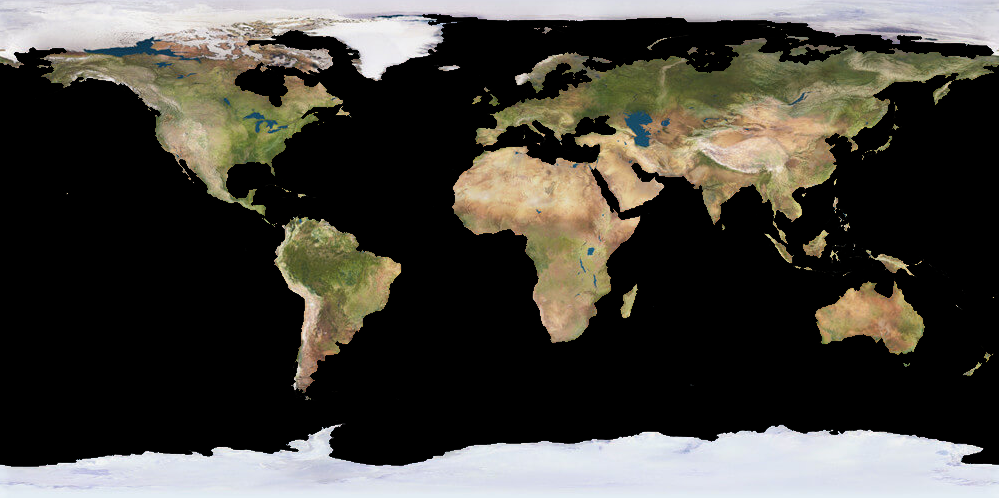
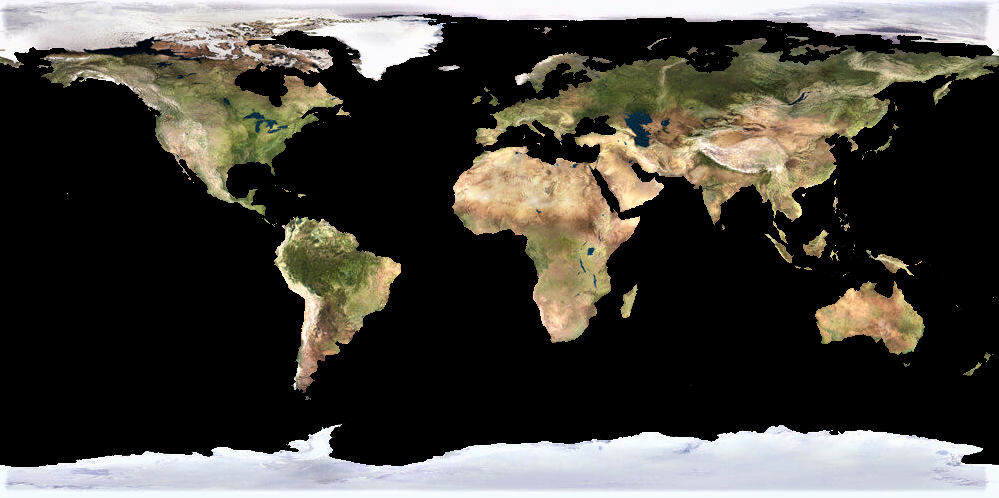
optimizacion

diff --git a/src/components/home/scene/planetUniverse.js b/src/components/home/scene/planetUniverse.js
@@ -1,6 +1,5 @@
 import * as THREE from "three"
-import earthBump from "./srcPlanet/earthbump.jpg"
-import earthCloud from "./srcPlanet/earthCloud.png"
+import earthCloud from "./srcPlanet/earthCloud22.png"
 import earthmap1k from "./srcPlanet/earthMap2.png"
 import galaxy from "./srcPlanet/space7.jpg"
 import gsap from "gsap";
@@ -59,11 +58,9 @@ const planetUniverse = () => {
 
     /* textures */
     const textureLoader = new THREE.TextureLoader()
-    const earthBump1 = textureLoader.load(earthBump)
     const earthCloud1 = textureLoader.load(earthCloud)
     const texturePlanet = textureLoader.load(earthmap1k)
     const galaxyTexture = textureLoader.load(galaxy)
-    galaxyTexture.minFilter = THREE.NearestFilter
       
     
 
@@ -74,8 +71,6 @@ const planetUniverse = () => {
     const materialUniverse = new THREE.MeshBasicMaterial({
         side: THREE.BackSide,
         map:galaxyTexture,
-        transparent: true,
-        sizeAttenuation: true,
         opacity:.8
     })
 
@@ -100,12 +95,9 @@ const planetUniverse = () => {
    
     const earthMaterial = new THREE.MeshPhongMaterial({
         map: texturePlanet,
-        bumpMap: earthBump1,
-        bumpScale: .2,
         side: THREE.FrontSide,
-        sizeAttenuation: true,
+        alphaTest : 0.5,
         color: new THREE.Color("#e31616"),
-        transparent:true
     });
     
 
@@ -118,6 +110,7 @@ const planetUniverse = () => {
     const earthSide = new THREE.MeshBasicMaterial({
         color: new THREE.Color("#000000"),
         side: THREE.DoubleSide,
+        alphaTest : 0.5,
 
     });
     
@@ -131,9 +124,10 @@ const planetUniverse = () => {
 
      // clouds
 
-     const cloudMetarial = new THREE.MeshPhongMaterial({
+     const cloudMetarial = new THREE.MeshBasicMaterial({
          map:earthCloud1,
          transparent: true,
+         opacity: .9
      });
      
 
@@ -155,7 +149,7 @@ const planetUniverse = () => {
 
 
    const starsGeometry =new THREE.BufferGeometry()
-   const count = 1500
+   const count = 700
 
    const colors = new Float32Array(count * 3)
    const positions = new Float32Array(count * 3) 
@@ -163,7 +157,7 @@ const planetUniverse = () => {
    let material = null
    let points = null
 
-   
+
 
    for(let i = 0; i < count * 3; i++) {
 
@@ -174,7 +168,7 @@ const planetUniverse = () => {
            scene.remove(points)
        }
 
-       positions[i] = (Math.random() - .5) * 30
+       positions[i] = (Math.random() - .5) * 25
        colors[i] = Math.random()
    }
 
@@ -185,10 +179,9 @@ const planetUniverse = () => {
 
 
    const particlesMaterial = new THREE.PointsMaterial({
-       size:0.01,
-       sizeAttenuation: true,
+       size:0.015,
+       alphaTest : 0.5,
        color: new THREE.Color("#ffffff"),
-       transparent: true,
    })
 
    const particle = new THREE.Points(starsGeometry, particlesMaterial)
@@ -200,11 +193,17 @@ const planetUniverse = () => {
 
 
 
-
     const renderer = new THREE.WebGLRenderer({
         canvas: canvas,
-        antialias: true,
-        alpha:true
+    
+        /* optimizacion */
+
+        antialias:false,
+        preserveDrawingBuffer: false,
+        failIfMajorPerformanceCaveat: true
+
+    /*     powerPreference: "low-power", */
+       /*  FXAAShader:true  *//* remplazo antialias */
     })
 
     renderer.setSize(sizes.width , sizes.height)

diff --git a/src/components/home/main/main.css b/src/components/home/main/main.css
@@ -11,8 +11,8 @@
     width: 100%;
     top: 0;
     left: 0;
-  filter: contrast(105%) ;
-
+    filter: contrast(105%) ;
+    pointer-events: none;
 }
 
 .box_titleHeader{
